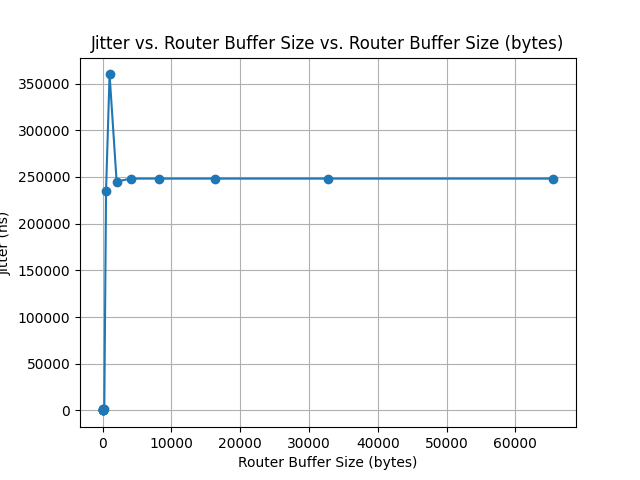
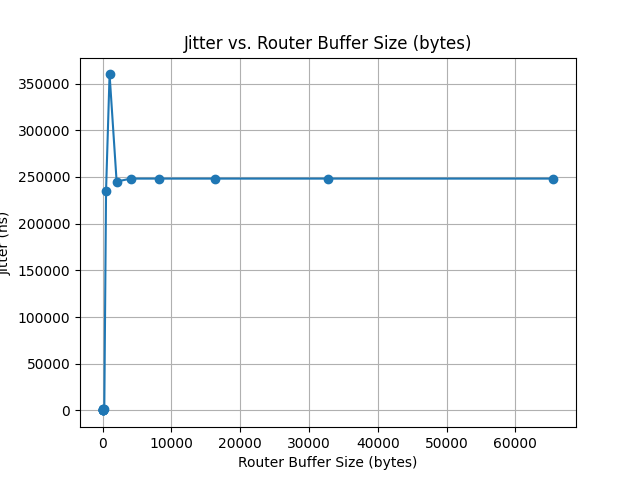
update the figures of all four experiments

Changed region(s): [[0.125, 0.0625, 0.875, 0.125]]

diff --git a/experiment/02_result/data_process_RouterBuffer.py b/experiment/02_result/data_process_RouterBuffer.py
@@ -78,4 +78,4 @@ if __name__ == "__main__":
         router_buffers, qos_values = process_data(data, qos_parameter)
         unit = get_unit(qos_parameter)  # Implement get_unit function based on your requirements
         plot_filename = f'{qos_parameter}_vs_Router_Buffer_Size.png'
-        plot_figure(router_buffers, qos_values, 'Router Buffer Size', f'{qos_parameter} ({unit})', f'{qos_parameter} vs. Router Buffer Size', plot_filename)
+        plot_figure(router_buffers, qos_values, 'Router Buffer Size', f'{qos_parameter} ({unit})', f'{qos_parameter}', plot_filename)

diff --git a/experiment/02_result/data_process_TCPBuffer.py b/experiment/02_result/data_process_TCPBuffer.py
@@ -78,4 +78,4 @@ if __name__ == "__main__":
         tcp_buffers, qos_values = process_data(data, qos_parameter)
         unit = get_unit(qos_parameter)  # Implement get_unit function based on your requirements
         plot_filename = f'{qos_parameter}_vs_TCP_Buffer_Size.png'
-        plot_figure(tcp_buffers, qos_values, 'TCP Buffer Size', f'{qos_parameter} ({unit})', f'{qos_parameter} vs. TCP Buffer Size', plot_filename)
+        plot_figure(tcp_buffers, qos_values, 'TCP Buffer Size', f'{qos_parameter} ({unit})', f'{qos_parameter}', plot_filename)

diff --git a/experiment/01_result/data_process_TCP.py b/experiment/01_result/data_process_TCP.py
@@ -78,4 +78,4 @@ if __name__ == "__main__":
         tcp_rates, qos_values = process_data(data, qos_parameter)
         unit = get_unit(qos_parameter)  # Implement get_unit function based on your requirements
         plot_filename = f'{qos_parameter}_vs_TCP_Rate.png'
-        plot_figure(tcp_rates, qos_values, 'TCP Rate', f'{qos_parameter} ({unit})', f'{qos_parameter} vs. TCP Rate', plot_filename)
+        plot_figure(tcp_rates, qos_values, 'TCP Rate', f'{qos_parameter} ({unit})', f'{qos_parameter}', plot_filename)

diff --git a/experiment/01_result/data_process_UDP.py b/experiment/01_result/data_process_UDP.py
@@ -78,4 +78,4 @@ if __name__ == "__main__":
         udp_rates, qos_values = process_data(data, qos_parameter)
         unit = get_unit(qos_parameter)  # Implement get_unit function based on your requirements
         plot_filename = f'{qos_parameter}_vs_UDP_Rate.png'
-        plot_figure(udp_rates, qos_values, 'UDP Rate', f'{qos_parameter} ({unit})', f'{qos_parameter} vs. UDP Rate', plot_filename)
+        plot_figure(udp_rates, qos_values, 'UDP Rate', f'{qos_parameter} ({unit})', f'{qos_parameter}', plot_filename)

diff --git a/experiment/03_result/data_process_MTU.py b/experiment/03_result/data_process_MTU.py
@@ -78,4 +78,4 @@ if __name__ == "__main__":
         mtu_rates, qos_values = process_data(data, qos_parameter)
         unit = get_unit(qos_parameter)  # Implement get_unit function based on your requirements
         plot_filename = f'{qos_parameter}_vs_MTU.png'
-        plot_figure(mtu_rates, qos_values, 'MTU', f'{qos_parameter} ({unit})', f'{qos_parameter} vs. MTU', plot_filename)
+        plot_figure(mtu_rates, qos_values, 'MTU', f'{qos_parameter} ({unit})', f'{qos_parameter}', plot_filename)
